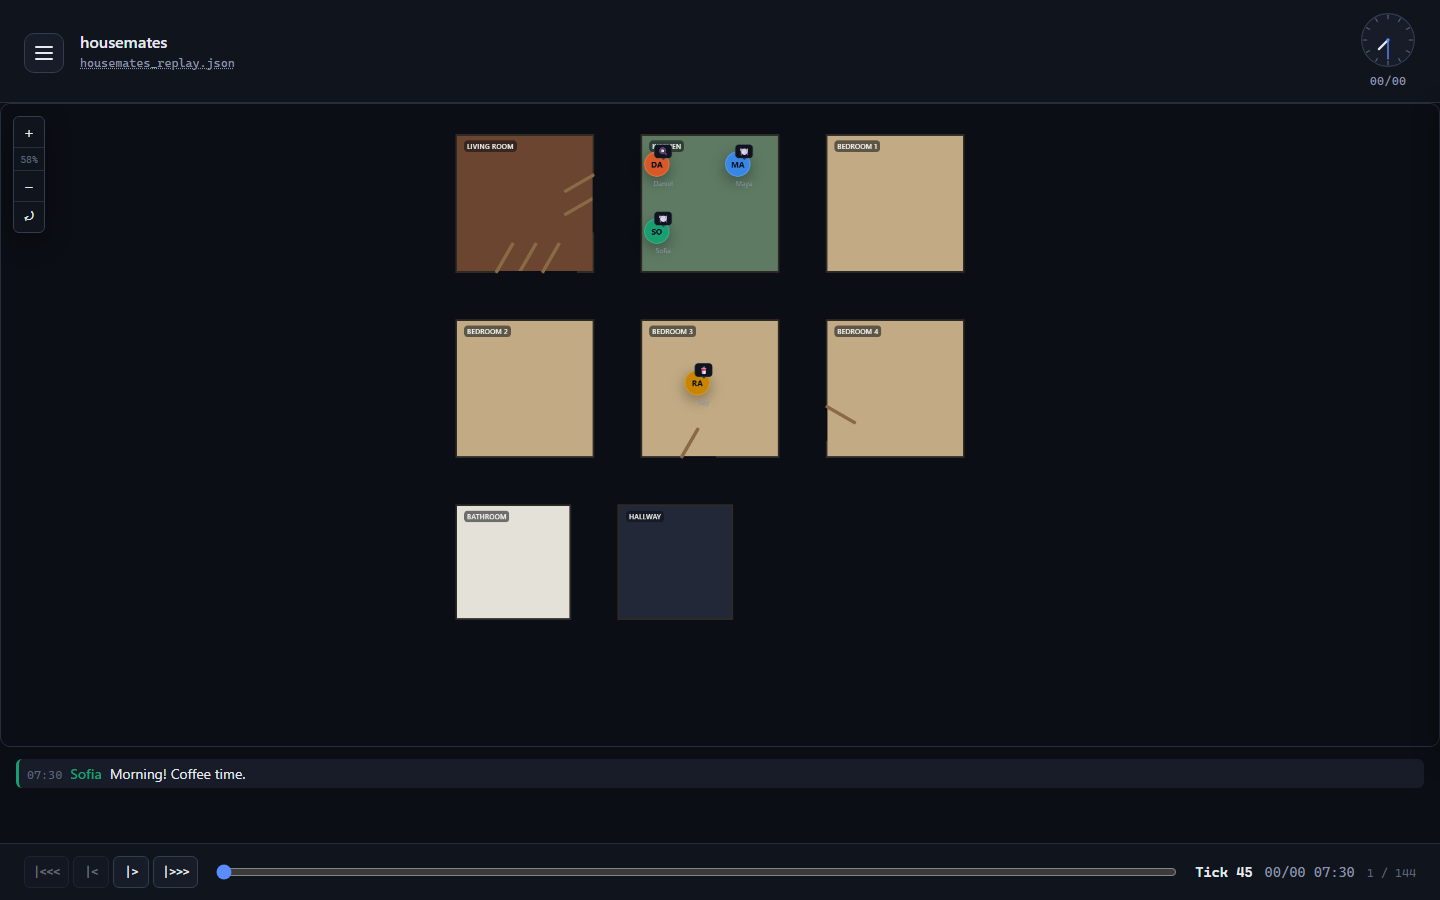
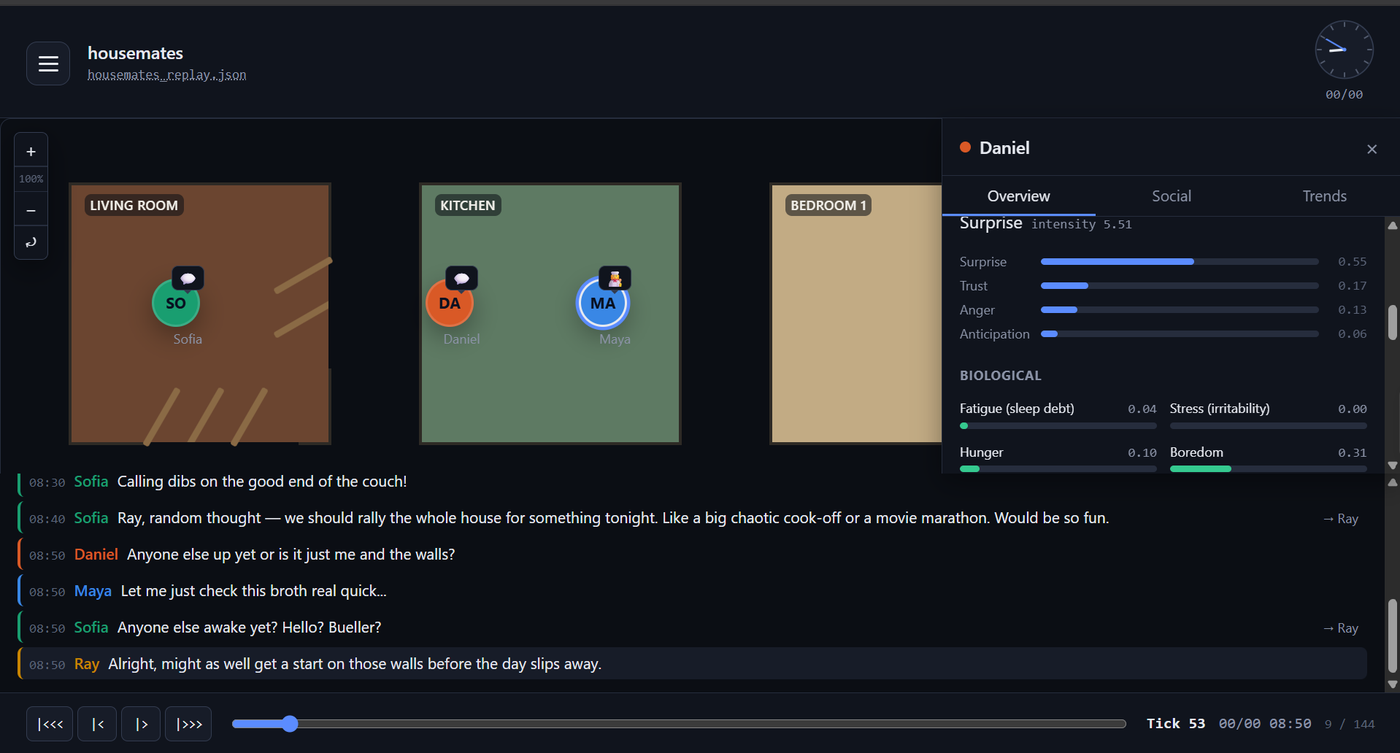
New demo screenshots, drop coursework section, link Past Messages Analysis

diff --git a/index.html b/index.html
@@ -13,7 +13,6 @@
     <nav>
       <a href="#experience">Experience</a>
       <a href="#projects">Projects</a>
-      <a href="#stats">Stats</a>
       <a href="#beyond">Beyond code</a>
       <a href="#contact">Contact</a>
     </nav>
@@ -145,6 +144,7 @@
           <h3>Past Messages Analyzer</h3>
           <p class="meta">Python · NLP · privacy-first</p>
           <p>Ingests message exports into SQLite and tracks how a relationship's style drifts over time (PELT changepoints, reused BLOC clustering). LLM narration sees summary statistics only by default.</p>
+          <p class="links"><a href="https://github.com/Tim-Chen-Yen-Ting/Past-Messages-Analysis">Code →</a></p>
         </article>
         <article class="card">
           <h3>Personal Knowledge Base</h3>
@@ -153,16 +153,6 @@
           <p class="links"><a href="https://github.com/Tim-Chen-Yen-Ting/Personal-Knowledge-DB-Manager">Code →</a></p>
         </article>
       </div>
-    </section>
-
-    <section id="stats">
-      <h2>Statistics &amp; coursework projects</h2>
-      <ul class="plain">
-        <li><strong>ASA DataFest, with Stormont Vail Health (2026):</strong> 947,685 patients and 7.7M encounters; nonparametric tests, logistic regression / random forest / XGBoost diversion classifiers, and a projected 22.06% reduction in avoidable ER visits.</li>
-        <li><strong>Causal inference (Stats C160):</strong> a DAG on MIMIC-IV (N = 32,840 ICU stays) showing the "obesity paradox" resolves to null once confounders are adjusted, checked with an E-value sensitivity analysis.</li>
-        <li><strong>Federated lasso (Stats 102B):</strong> hand-coded coordinate-descent solver across 3 nodes, studying communication rounds against client drift.</li>
-        <li><strong>Factorial design (Stats 101B):</strong> 4×2 randomized block experiment with a priori power analysis; beverage-type effect F(3,76) = 7.79, p &lt; 0.001.</li>
-      </ul>
     </section>
 
     <section id="beyond">
@@ -187,7 +177,7 @@
       <h2>Contact</h2>
       <p>The fastest way to reach me is email.</p>
       <p>
-        <a href="mailto:timchen56789@gmail.com">timchen56789@gmail.com</a> ·
+        <a href="mailto:timchen56789@gmail.com">Email</a> ·
         <a href="https://www.linkedin.com/in/yen-ting-tim-chen-303276329">LinkedIn</a> ·
         <a href="https://github.com/Tim-Chen-Yen-Ting">GitHub</a>
       </p>
